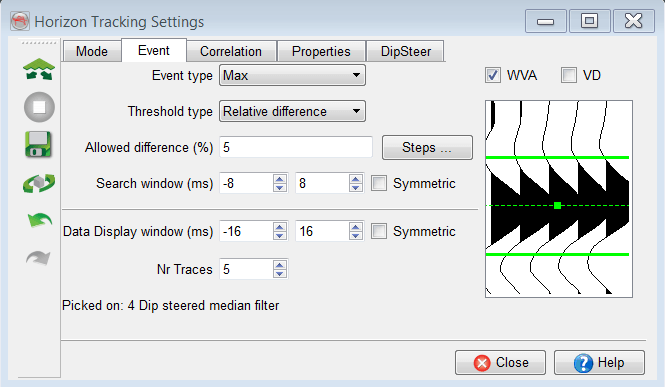
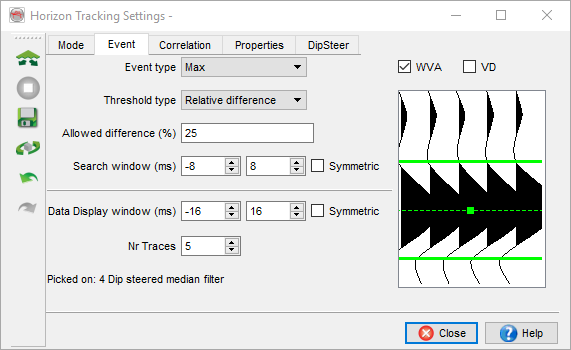
Updated image to reflect removal of 'Steps' in Event window

diff --git a/od_userdoc/Content/OpendTect_Trees_And_Elements/Horizon/New_Horizon/Auto_And_Manual_Horizon_Tracking/Horizon_Tracking_Settings.htm b/od_userdoc/Content/OpendTect_Trees_And_Elements/Horizon/New_Horizon/Auto_And_Manual_Horizon_Tracking/Horizon_Tracking_Settings.htm
@@ -1,5 +1,5 @@
 <?xml version="1.0" encoding="utf-8"?>
-<html xmlns:MadCap="http://www.madcapsoftware.com/Schemas/MadCap.xsd" MadCap:lastBlockDepth="6" MadCap:lastHeight="5820" MadCap:lastWidth="1026">
+<html xmlns:MadCap="http://www.madcapsoftware.com/Schemas/MadCap.xsd" MadCap:lastBlockDepth="6" MadCap:lastHeight="5133" MadCap:lastWidth="1377">
     <head>
     </head>
     <body>
@@ -43,8 +43,6 @@
             <li><u>Display Window:</u> This controls the display of WVA/VD of the surrounding trace segments near the last picked seeds. One can control the display window and number of traces. This gives an overview of the picked location. In the display, one can also change the search window by moving the green lines up/down.</li>
         </ul>
         <p class="tip">At the bottom of this tab, one may see a status note on picked/current data on which interpretation is being performed.</p>
-        <p><u>Steps</u>: Step-wise tracking results in a better tracked horizons. Good parts of the horizon are tracked first, followed by the more difficult areas. The tracker will first track those part of the horizon that have a low difference to the seeds or parts that have a high amplitude. In subsequent steps the tracker settings become less strict. Therefore, the horizon will be of better quality and needs less editing. The user can define the subsequent percentage values (incremental: e.g. 1,2,5,10,20) , or subsequent amplitude values (decremental e.g. 2500,2000,1500,1000,500).</p>
-        <img src="../../../../Resources/Images/OpendTect_Trees_and_Elements/Horizon tracker stepwise.png" class="General_Image" />
         <p><b>Correlation Tab</b>
         </p>
         <img src="../../../../Resources/Images/OpendTect_Trees_and_Elements/Horizon tracker similarity.png" class="General_Image" />
